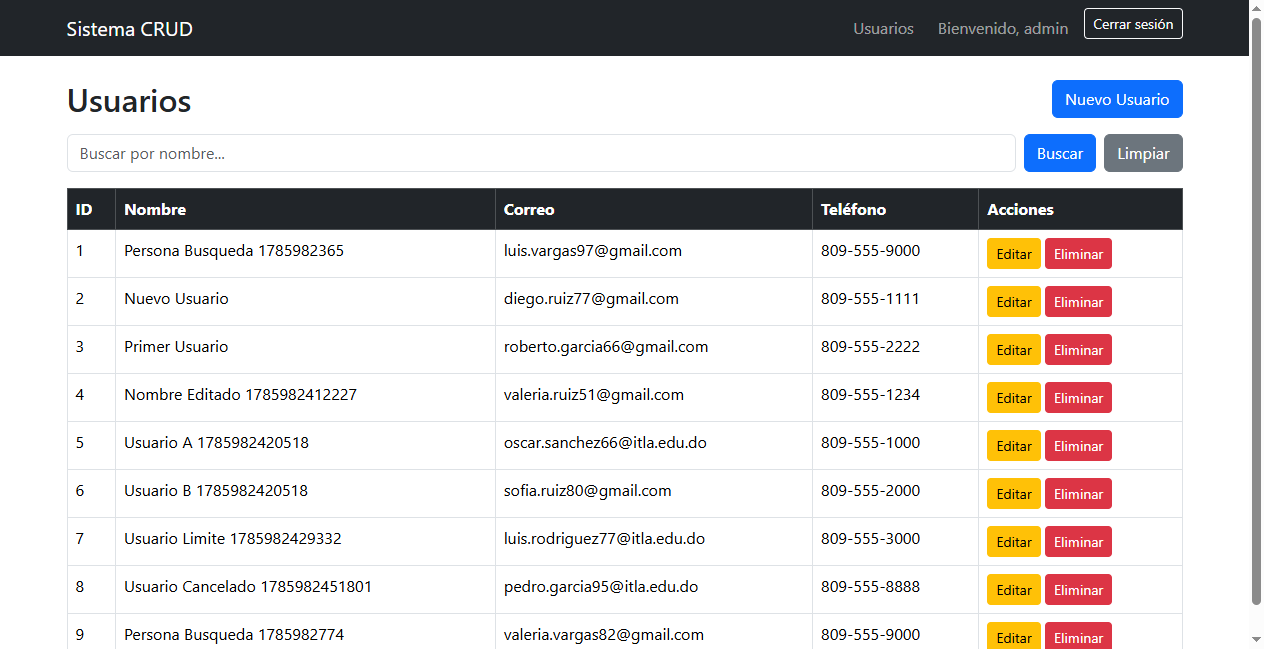
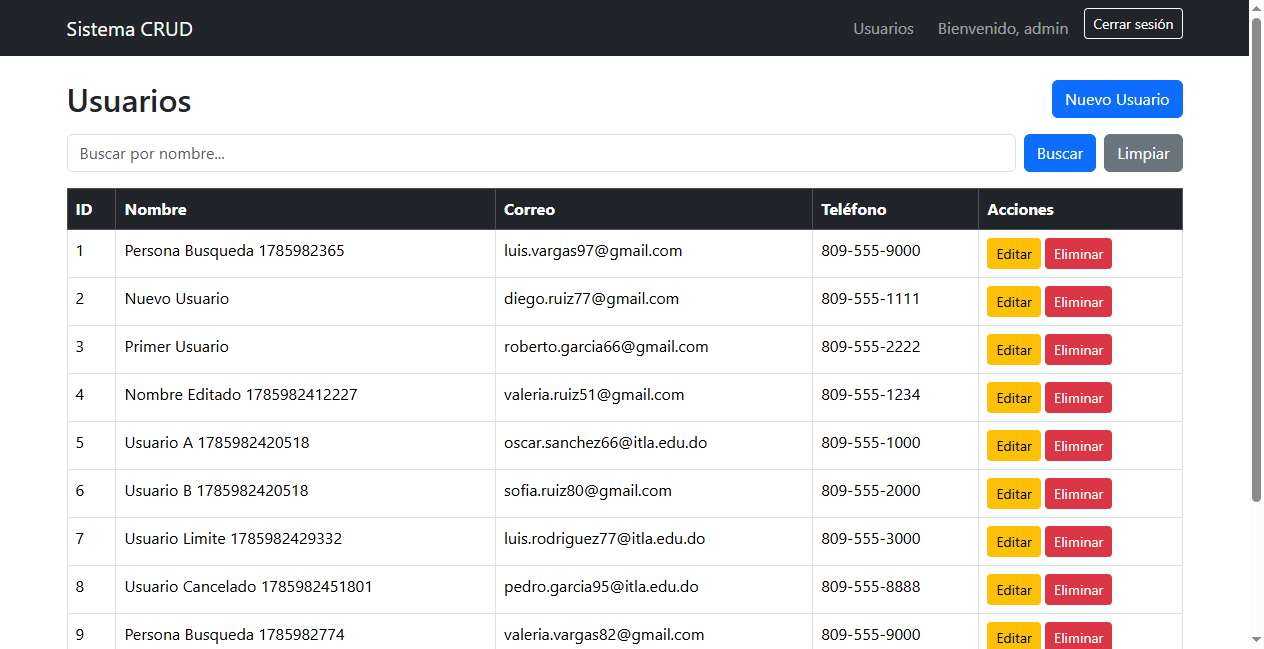
Regenerar capturas de login y listar para completar las 18 evidencias

diff --git a/report/report.html b/report/report.html
@@ -328,7 +328,7 @@ div.media {
   </head>
   <body>
     <h1 id="title">report.html</h1>
-    <p>Report generated on 05-Aug-2026 at 22:14:23 by <a href="https://pypi.python.org/pypi/pytest-html">pytest-html</a>
+    <p>Report generated on 05-Aug-2026 at 22:35:08 by <a href="https://pypi.python.org/pypi/pytest-html">pytest-html</a>
         v4.2.0</p>
     <div id="environment-header">
       <h2>Environment</h2>
@@ -383,7 +383,7 @@ div.media {
         <h2>Summary</h2>
         <div class="additional-summary prefix">
         </div>
-        <p class="run-count">12 tests took 00:01:41.</p>
+        <p class="run-count">18 tests took 00:02:45.</p>
         <p class="filter">(Un)check the boxes to filter the results.</p>
         <div class="summary__reload">
           <div class="summary__reload__button hidden" onclick="location.reload()">
@@ -396,7 +396,7 @@ div.media {
             <input checked="true" class="filter" name="filter_checkbox" type="checkbox" data-test-result="failed" disabled>
             <span class="failed">0 Failed,</span>
             <input checked="true" class="filter" name="filter_checkbox" type="checkbox" data-test-result="passed" >
-            <span class="passed">12 Passed,</span>
+            <span class="passed">18 Passed,</span>
             <input checked="true" class="filter" name="filter_checkbox" type="checkbox" data-test-result="skipped" disabled>
             <span class="skipped">0 Skipped,</span>
             <input checked="true" class="filter" name="filter_checkbox" type="checkbox" data-test-result="xfailed" disabled>
@@ -431,7 +431,7 @@ div.media {
       </thead>
     </table>
   <footer>
-    <div id="data-container" data-jsonblob="{&#34;environment&#34;: {&#34;Python&#34;: &#34;3.14.6&#34;, &#34;Platform&#34;: &#34;Windows-10-10.0.19045-SP0&#34;, &#34;Packages&#34;: {&#34;pytest&#34;: &#34;9.1.1&#34;, &#34;pluggy&#34;: &#34;1.6.0&#34;}, &#34;Plugins&#34;: {&#34;html&#34;: &#34;4.2.0&#34;, &#34;metadata&#34;: &#34;3.1.1&#34;}}, &#34;tests&#34;: {&#34;tests/test_buscar_usuario.py::TestBuscarUsuario::test_buscar_usuario_encontrado&#34;: [{&#34;extras&#34;: [], &#34;result&#34;: &#34;Passed&#34;, &#34;testId&#34;: &#34;tests/test_buscar_usuario.py::TestBuscarUsuario::test_buscar_usuario_encontrado&#34;, &#34;duration&#34;: &#34;00:00:07&#34;, &#34;resultsTableRow&#34;: [&#34;&lt;td class=\&#34;col-result\&#34;&gt;Passed&lt;/td&gt;&#34;, &#34;&lt;td class=\&#34;col-testId\&#34;&gt;tests/test_buscar_usuario.py::TestBuscarUsuario::test_buscar_usuario_encontrado&lt;/td&gt;&#34;, &#34;&lt;td class=\&#34;col-duration\&#34;&gt;00:00:07&lt;/td&gt;&#34;, &#34;&lt;td class=\&#34;col-links\&#34;&gt;&lt;/td&gt;&#34;], &#34;log&#34;: &#34;No log output captured.&#34;}], &#34;tests/test_buscar_usuario.py::TestBuscarUsuario::test_buscar_usuario_sin_resultados&#34;: [{&#34;extras&#34;: [], &#34;result&#34;: &#34;Passed&#34;, &#34;testId&#34;: &#34;tests/test_buscar_usuario.py::TestBuscarUsuario::test_buscar_usuario_sin_resultados&#34;, &#34;duration&#34;: &#34;00:00:08&#34;, &#34;resultsTableRow&#34;: [&#34;&lt;td class=\&#34;col-result\&#34;&gt;Passed&lt;/td&gt;&#34;, &#34;&lt;td class=\&#34;col-testId\&#34;&gt;tests/test_buscar_usuario.py::TestBuscarUsuario::test_buscar_usuario_sin_resultados&lt;/td&gt;&#34;, &#34;&lt;td class=\&#34;col-duration\&#34;&gt;00:00:08&lt;/td&gt;&#34;, &#34;&lt;td class=\&#34;col-links\&#34;&gt;&lt;/td&gt;&#34;], &#34;log&#34;: &#34;No log output captured.&#34;}], &#34;tests/test_buscar_usuario.py::TestBuscarUsuario::test_busqueda_vacia_muestra_todos&#34;: [{&#34;extras&#34;: [], &#34;result&#34;: &#34;Passed&#34;, &#34;testId&#34;: &#34;tests/test_buscar_usuario.py::TestBuscarUsuario::test_busqueda_vacia_muestra_todos&#34;, &#34;duration&#34;: &#34;00:00:07&#34;, &#34;resultsTableRow&#34;: [&#34;&lt;td class=\&#34;col-result\&#34;&gt;Passed&lt;/td&gt;&#34;, &#34;&lt;td class=\&#34;col-testId\&#34;&gt;tests/test_buscar_usuario.py::TestBuscarUsuario::test_busqueda_vacia_muestra_todos&lt;/td&gt;&#34;, &#34;&lt;td class=\&#34;col-duration\&#34;&gt;00:00:07&lt;/td&gt;&#34;, &#34;&lt;td class=\&#34;col-links\&#34;&gt;&lt;/td&gt;&#34;], &#34;log&#34;: &#34;No log output captured.&#34;}], &#34;tests/test_crear_usuario.py::TestCrearUsuario::test_crear_usuario_correcto&#34;: [{&#34;extras&#34;: [], &#34;result&#34;: &#34;Passed&#34;, &#34;testId&#34;: &#34;tests/test_crear_usuario.py::TestCrearUsuario::test_crear_usuario_correcto&#34;, &#34;duration&#34;: &#34;00:00:07&#34;, &#34;resultsTableRow&#34;: [&#34;&lt;td class=\&#34;col-result\&#34;&gt;Passed&lt;/td&gt;&#34;, &#34;&lt;td class=\&#34;col-testId\&#34;&gt;tests/test_crear_usuario.py::TestCrearUsuario::test_crear_usuario_correcto&lt;/td&gt;&#34;, &#34;&lt;td class=\&#34;col-duration\&#34;&gt;00:00:07&lt;/td&gt;&#34;, &#34;&lt;td class=\&#34;col-links\&#34;&gt;&lt;/td&gt;&#34;], &#34;log&#34;: &#34;No log output captured.&#34;}], &#34;tests/test_crear_usuario.py::TestCrearUsuario::test_crear_usuario_correo_duplicado&#34;: [{&#34;extras&#34;: [], &#34;result&#34;: &#34;Passed&#34;, &#34;testId&#34;: &#34;tests/test_crear_usuario.py::TestCrearUsuario::test_crear_usuario_correo_duplicado&#34;, &#34;duration&#34;: &#34;00:00:08&#34;, &#34;resultsTableRow&#34;: [&#34;&lt;td class=\&#34;col-result\&#34;&gt;Passed&lt;/td&gt;&#34;, &#34;&lt;td class=\&#34;col-testId\&#34;&gt;tests/test_crear_usuario.py::TestCrearUsuario::test_crear_usuario_correo_duplicado&lt;/td&gt;&#34;, &#34;&lt;td class=\&#34;col-duration\&#34;&gt;00:00:08&lt;/td&gt;&#34;, &#34;&lt;td class=\&#34;col-links\&#34;&gt;&lt;/td&gt;&#34;], &#34;log&#34;: &#34;No log output captured.&#34;}], &#34;tests/test_crear_usuario.py::TestCrearUsuario::test_crear_usuario_nombre_vacio&#34;: [{&#34;extras&#34;: [], &#34;result&#34;: &#34;Passed&#34;, &#34;testId&#34;: &#34;tests/test_crear_usuario.py::TestCrearUsuario::test_crear_usuario_nombre_vacio&#34;, &#34;duration&#34;: &#34;00:00:07&#34;, &#34;resultsTableRow&#34;: [&#34;&lt;td class=\&#34;col-result\&#34;&gt;Passed&lt;/td&gt;&#34;, &#34;&lt;td class=\&#34;col-testId\&#34;&gt;tests/test_crear_usuario.py::TestCrearUsuario::test_crear_usuario_nombre_vacio&lt;/td&gt;&#34;, &#34;&lt;td class=\&#34;col-duration\&#34;&gt;00:00:07&lt;/td&gt;&#34;, &#34;&lt;td class=\&#34;col-links\&#34;&gt;&lt;/td&gt;&#34;], &#34;log&#34;: &#34;No log output captured.&#34;}], &#34;tests/test_editar_usuario.py::TestEditarUsuario::test_editar_usuario_correcto&#34;: [{&#34;extras&#34;: [], &#34;result&#34;: &#34;Passed&#34;, &#34;testId&#34;: &#34;tests/test_editar_usuario.py::TestEditarUsuario::test_editar_usuario_correcto&#34;, &#34;duration&#34;: &#34;00:00:08&#34;, &#34;resultsTableRow&#34;: [&#34;&lt;td class=\&#34;col-result\&#34;&gt;Passed&lt;/td&gt;&#34;, &#34;&lt;td class=\&#34;col-testId\&#34;&gt;tests/test_editar_usuario.py::TestEditarUsuario::test_editar_usuario_correcto&lt;/td&gt;&#34;, &#34;&lt;td class=\&#34;col-duration\&#34;&gt;00:00:08&lt;/td&gt;&#34;, &#34;&lt;td class=\&#34;col-links\&#34;&gt;&lt;/td&gt;&#34;], &#34;log&#34;: &#34;No log output captured.&#34;}], &#34;tests/test_editar_usuario.py::TestEditarUsuario::test_editar_usuario_correo_duplicado&#34;: [{&#34;extras&#34;: [], &#34;result&#34;: &#34;Passed&#34;, &#34;testId&#34;: &#34;tests/test_editar_usuario.py::TestEditarUsuario::test_editar_usuario_correo_duplicado&#34;, &#34;duration&#34;: &#34;00:00:09&#34;, &#34;resultsTableRow&#34;: [&#34;&lt;td class=\&#34;col-result\&#34;&gt;Passed&lt;/td&gt;&#34;, &#34;&lt;td class=\&#34;col-testId\&#34;&gt;tests/test_editar_usuario.py::TestEditarUsuario::test_editar_usuario_correo_duplicado&lt;/td&gt;&#34;, &#34;&lt;td class=\&#34;col-duration\&#34;&gt;00:00:09&lt;/td&gt;&#34;, &#34;&lt;td class=\&#34;col-links\&#34;&gt;&lt;/td&gt;&#34;], &#34;log&#34;: &#34;No log output captured.&#34;}], &#34;tests/test_editar_usuario.py::TestEditarUsuario::test_editar_usuario_nombre_vacio&#34;: [{&#34;extras&#34;: [], &#34;result&#34;: &#34;Passed&#34;, &#34;testId&#34;: &#34;tests/test_editar_usuario.py::TestEditarUsuario::test_editar_usuario_nombre_vacio&#34;, &#34;duration&#34;: &#34;00:00:08&#34;, &#34;resultsTableRow&#34;: [&#34;&lt;td class=\&#34;col-result\&#34;&gt;Passed&lt;/td&gt;&#34;, &#34;&lt;td class=\&#34;col-testId\&#34;&gt;tests/test_editar_usuario.py::TestEditarUsuario::test_editar_usuario_nombre_vacio&lt;/td&gt;&#34;, &#34;&lt;td class=\&#34;col-duration\&#34;&gt;00:00:08&lt;/td&gt;&#34;, &#34;&lt;td class=\&#34;col-links\&#34;&gt;&lt;/td&gt;&#34;], &#34;log&#34;: &#34;No log output captured.&#34;}], &#34;tests/test_eliminar_usuario.py::TestEliminarUsuario::test_eliminar_usuario_correcto&#34;: [{&#34;extras&#34;: [], &#34;result&#34;: &#34;Passed&#34;, &#34;testId&#34;: &#34;tests/test_eliminar_usuario.py::TestEliminarUsuario::test_eliminar_usuario_correcto&#34;, &#34;duration&#34;: &#34;00:00:08&#34;, &#34;resultsTableRow&#34;: [&#34;&lt;td class=\&#34;col-result\&#34;&gt;Passed&lt;/td&gt;&#34;, &#34;&lt;td class=\&#34;col-testId\&#34;&gt;tests/test_eliminar_usuario.py::TestEliminarUsuario::test_eliminar_usuario_correcto&lt;/td&gt;&#34;, &#34;&lt;td class=\&#34;col-duration\&#34;&gt;00:00:08&lt;/td&gt;&#34;, &#34;&lt;td class=\&#34;col-links\&#34;&gt;&lt;/td&gt;&#34;], &#34;log&#34;: &#34;No log output captured.&#34;}], &#34;tests/test_eliminar_usuario.py::TestEliminarUsuario::test_eliminar_usuario_inexistente&#34;: [{&#34;extras&#34;: [], &#34;result&#34;: &#34;Passed&#34;, &#34;testId&#34;: &#34;tests/test_eliminar_usuario.py::TestEliminarUsuario::test_eliminar_usuario_inexistente&#34;, &#34;duration&#34;: &#34;00:00:07&#34;, &#34;resultsTableRow&#34;: [&#34;&lt;td class=\&#34;col-result\&#34;&gt;Passed&lt;/td&gt;&#34;, &#34;&lt;td class=\&#34;col-testId\&#34;&gt;tests/test_eliminar_usuario.py::TestEliminarUsuario::test_eliminar_usuario_inexistente&lt;/td&gt;&#34;, &#34;&lt;td class=\&#34;col-duration\&#34;&gt;00:00:07&lt;/td&gt;&#34;, &#34;&lt;td class=\&#34;col-links\&#34;&gt;&lt;/td&gt;&#34;], &#34;log&#34;: &#34;No log output captured.&#34;}], &#34;tests/test_eliminar_usuario.py::TestEliminarUsuario::test_eliminar_usuario_cancelado&#34;: [{&#34;extras&#34;: [], &#34;result&#34;: &#34;Passed&#34;, &#34;testId&#34;: &#34;tests/test_eliminar_usuario.py::TestEliminarUsuario::test_eliminar_usuario_cancelado&#34;, &#34;duration&#34;: &#34;00:00:08&#34;, &#34;resultsTableRow&#34;: [&#34;&lt;td class=\&#34;col-result\&#34;&gt;Passed&lt;/td&gt;&#34;, &#34;&lt;td class=\&#34;col-testId\&#34;&gt;tests/test_eliminar_usuario.py::TestEliminarUsuario::test_eliminar_usuario_cancelado&lt;/td&gt;&#34;, &#34;&lt;td class=\&#34;col-duration\&#34;&gt;00:00:08&lt;/td&gt;&#34;, &#34;&lt;td class=\&#34;col-links\&#34;&gt;&lt;/td&gt;&#34;], &#34;log&#34;: &#34;No log output captured.&#34;}]}, &#34;renderCollapsed&#34;: [&#34;passed&#34;], &#34;initialSort&#34;: &#34;result&#34;, &#34;title&#34;: &#34;report.html&#34;}"></div>
+    <div id="data-container" data-jsonblob="{&#34;environment&#34;: {&#34;Python&#34;: &#34;3.14.6&#34;, &#34;Platform&#34;: &#34;Windows-10-10.0.19045-SP0&#34;, &#34;Packages&#34;: {&#34;pytest&#34;: &#34;9.1.1&#34;, &#34;pluggy&#34;: &#34;1.6.0&#34;}, &#34;Plugins&#34;: {&#34;html&#34;: &#34;4.2.0&#34;, &#34;metadata&#34;: &#34;3.1.1&#34;}}, &#34;tests&#34;: {&#34;tests/test_buscar_usuario.py::TestBuscarUsuario::test_buscar_usuario_encontrado&#34;: [{&#34;extras&#34;: [], &#34;result&#34;: &#34;Passed&#34;, &#34;testId&#34;: &#34;tests/test_buscar_usuario.py::TestBuscarUsuario::test_buscar_usuario_encontrado&#34;, &#34;duration&#34;: &#34;00:00:11&#34;, &#34;resultsTableRow&#34;: [&#34;&lt;td class=\&#34;col-result\&#34;&gt;Passed&lt;/td&gt;&#34;, &#34;&lt;td class=\&#34;col-testId\&#34;&gt;tests/test_buscar_usuario.py::TestBuscarUsuario::test_buscar_usuario_encontrado&lt;/td&gt;&#34;, &#34;&lt;td class=\&#34;col-duration\&#34;&gt;00:00:11&lt;/td&gt;&#34;, &#34;&lt;td class=\&#34;col-links\&#34;&gt;&lt;/td&gt;&#34;], &#34;log&#34;: &#34;No log output captured.&#34;}], &#34;tests/test_buscar_usuario.py::TestBuscarUsuario::test_buscar_usuario_sin_resultados&#34;: [{&#34;extras&#34;: [], &#34;result&#34;: &#34;Passed&#34;, &#34;testId&#34;: &#34;tests/test_buscar_usuario.py::TestBuscarUsuario::test_buscar_usuario_sin_resultados&#34;, &#34;duration&#34;: &#34;00:00:09&#34;, &#34;resultsTableRow&#34;: [&#34;&lt;td class=\&#34;col-result\&#34;&gt;Passed&lt;/td&gt;&#34;, &#34;&lt;td class=\&#34;col-testId\&#34;&gt;tests/test_buscar_usuario.py::TestBuscarUsuario::test_buscar_usuario_sin_resultados&lt;/td&gt;&#34;, &#34;&lt;td class=\&#34;col-duration\&#34;&gt;00:00:09&lt;/td&gt;&#34;, &#34;&lt;td class=\&#34;col-links\&#34;&gt;&lt;/td&gt;&#34;], &#34;log&#34;: &#34;No log output captured.&#34;}], &#34;tests/test_buscar_usuario.py::TestBuscarUsuario::test_busqueda_vacia_muestra_todos&#34;: [{&#34;extras&#34;: [], &#34;result&#34;: &#34;Passed&#34;, &#34;testId&#34;: &#34;tests/test_buscar_usuario.py::TestBuscarUsuario::test_busqueda_vacia_muestra_todos&#34;, &#34;duration&#34;: &#34;00:00:08&#34;, &#34;resultsTableRow&#34;: [&#34;&lt;td class=\&#34;col-result\&#34;&gt;Passed&lt;/td&gt;&#34;, &#34;&lt;td class=\&#34;col-testId\&#34;&gt;tests/test_buscar_usuario.py::TestBuscarUsuario::test_busqueda_vacia_muestra_todos&lt;/td&gt;&#34;, &#34;&lt;td class=\&#34;col-duration\&#34;&gt;00:00:08&lt;/td&gt;&#34;, &#34;&lt;td class=\&#34;col-links\&#34;&gt;&lt;/td&gt;&#34;], &#34;log&#34;: &#34;No log output captured.&#34;}], &#34;tests/test_crear_usuario.py::TestCrearUsuario::test_crear_usuario_correcto&#34;: [{&#34;extras&#34;: [], &#34;result&#34;: &#34;Passed&#34;, &#34;testId&#34;: &#34;tests/test_crear_usuario.py::TestCrearUsuario::test_crear_usuario_correcto&#34;, &#34;duration&#34;: &#34;00:00:09&#34;, &#34;resultsTableRow&#34;: [&#34;&lt;td class=\&#34;col-result\&#34;&gt;Passed&lt;/td&gt;&#34;, &#34;&lt;td class=\&#34;col-testId\&#34;&gt;tests/test_crear_usuario.py::TestCrearUsuario::test_crear_usuario_correcto&lt;/td&gt;&#34;, &#34;&lt;td class=\&#34;col-duration\&#34;&gt;00:00:09&lt;/td&gt;&#34;, &#34;&lt;td class=\&#34;col-links\&#34;&gt;&lt;/td&gt;&#34;], &#34;log&#34;: &#34;No log output captured.&#34;}], &#34;tests/test_crear_usuario.py::TestCrearUsuario::test_crear_usuario_correo_duplicado&#34;: [{&#34;extras&#34;: [], &#34;result&#34;: &#34;Passed&#34;, &#34;testId&#34;: &#34;tests/test_crear_usuario.py::TestCrearUsuario::test_crear_usuario_correo_duplicado&#34;, &#34;duration&#34;: &#34;00:00:09&#34;, &#34;resultsTableRow&#34;: [&#34;&lt;td class=\&#34;col-result\&#34;&gt;Passed&lt;/td&gt;&#34;, &#34;&lt;td class=\&#34;col-testId\&#34;&gt;tests/test_crear_usuario.py::TestCrearUsuario::test_crear_usuario_correo_duplicado&lt;/td&gt;&#34;, &#34;&lt;td class=\&#34;col-duration\&#34;&gt;00:00:09&lt;/td&gt;&#34;, &#34;&lt;td class=\&#34;col-links\&#34;&gt;&lt;/td&gt;&#34;], &#34;log&#34;: &#34;No log output captured.&#34;}], &#34;tests/test_crear_usuario.py::TestCrearUsuario::test_crear_usuario_nombre_vacio&#34;: [{&#34;extras&#34;: [], &#34;result&#34;: &#34;Passed&#34;, &#34;testId&#34;: &#34;tests/test_crear_usuario.py::TestCrearUsuario::test_crear_usuario_nombre_vacio&#34;, &#34;duration&#34;: &#34;00:00:08&#34;, &#34;resultsTableRow&#34;: [&#34;&lt;td class=\&#34;col-result\&#34;&gt;Passed&lt;/td&gt;&#34;, &#34;&lt;td class=\&#34;col-testId\&#34;&gt;tests/test_crear_usuario.py::TestCrearUsuario::test_crear_usuario_nombre_vacio&lt;/td&gt;&#34;, &#34;&lt;td class=\&#34;col-duration\&#34;&gt;00:00:08&lt;/td&gt;&#34;, &#34;&lt;td class=\&#34;col-links\&#34;&gt;&lt;/td&gt;&#34;], &#34;log&#34;: &#34;No log output captured.&#34;}], &#34;tests/test_editar_usuario.py::TestEditarUsuario::test_editar_usuario_correcto&#34;: [{&#34;extras&#34;: [], &#34;result&#34;: &#34;Passed&#34;, &#34;testId&#34;: &#34;tests/test_editar_usuario.py::TestEditarUsuario::test_editar_usuario_correcto&#34;, &#34;duration&#34;: &#34;00:00:09&#34;, &#34;resultsTableRow&#34;: [&#34;&lt;td class=\&#34;col-result\&#34;&gt;Passed&lt;/td&gt;&#34;, &#34;&lt;td class=\&#34;col-testId\&#34;&gt;tests/test_editar_usuario.py::TestEditarUsuario::test_editar_usuario_correcto&lt;/td&gt;&#34;, &#34;&lt;td class=\&#34;col-duration\&#34;&gt;00:00:09&lt;/td&gt;&#34;, &#34;&lt;td class=\&#34;col-links\&#34;&gt;&lt;/td&gt;&#34;], &#34;log&#34;: &#34;No log output captured.&#34;}], &#34;tests/test_editar_usuario.py::TestEditarUsuario::test_editar_usuario_correo_duplicado&#34;: [{&#34;extras&#34;: [], &#34;result&#34;: &#34;Passed&#34;, &#34;testId&#34;: &#34;tests/test_editar_usuario.py::TestEditarUsuario::test_editar_usuario_correo_duplicado&#34;, &#34;duration&#34;: &#34;00:00:13&#34;, &#34;resultsTableRow&#34;: [&#34;&lt;td class=\&#34;col-result\&#34;&gt;Passed&lt;/td&gt;&#34;, &#34;&lt;td class=\&#34;col-testId\&#34;&gt;tests/test_editar_usuario.py::TestEditarUsuario::test_editar_usuario_correo_duplicado&lt;/td&gt;&#34;, &#34;&lt;td class=\&#34;col-duration\&#34;&gt;00:00:13&lt;/td&gt;&#34;, &#34;&lt;td class=\&#34;col-links\&#34;&gt;&lt;/td&gt;&#34;], &#34;log&#34;: &#34;No log output captured.&#34;}], &#34;tests/test_editar_usuario.py::TestEditarUsuario::test_editar_usuario_nombre_vacio&#34;: [{&#34;extras&#34;: [], &#34;result&#34;: &#34;Passed&#34;, &#34;testId&#34;: &#34;tests/test_editar_usuario.py::TestEditarUsuario::test_editar_usuario_nombre_vacio&#34;, &#34;duration&#34;: &#34;00:00:09&#34;, &#34;resultsTableRow&#34;: [&#34;&lt;td class=\&#34;col-result\&#34;&gt;Passed&lt;/td&gt;&#34;, &#34;&lt;td class=\&#34;col-testId\&#34;&gt;tests/test_editar_usuario.py::TestEditarUsuario::test_editar_usuario_nombre_vacio&lt;/td&gt;&#34;, &#34;&lt;td class=\&#34;col-duration\&#34;&gt;00:00:09&lt;/td&gt;&#34;, &#34;&lt;td class=\&#34;col-links\&#34;&gt;&lt;/td&gt;&#34;], &#34;log&#34;: &#34;No log output captured.&#34;}], &#34;tests/test_eliminar_usuario.py::TestEliminarUsuario::test_eliminar_usuario_correcto&#34;: [{&#34;extras&#34;: [], &#34;result&#34;: &#34;Passed&#34;, &#34;testId&#34;: &#34;tests/test_eliminar_usuario.py::TestEliminarUsuario::test_eliminar_usuario_correcto&#34;, &#34;duration&#34;: &#34;00:00:09&#34;, &#34;resultsTableRow&#34;: [&#34;&lt;td class=\&#34;col-result\&#34;&gt;Passed&lt;/td&gt;&#34;, &#34;&lt;td class=\&#34;col-testId\&#34;&gt;tests/test_eliminar_usuario.py::TestEliminarUsuario::test_eliminar_usuario_correcto&lt;/td&gt;&#34;, &#34;&lt;td class=\&#34;col-duration\&#34;&gt;00:00:09&lt;/td&gt;&#34;, &#34;&lt;td class=\&#34;col-links\&#34;&gt;&lt;/td&gt;&#34;], &#34;log&#34;: &#34;No log output captured.&#34;}], &#34;tests/test_eliminar_usuario.py::TestEliminarUsuario::test_eliminar_usuario_inexistente&#34;: [{&#34;extras&#34;: [], &#34;result&#34;: &#34;Passed&#34;, &#34;testId&#34;: &#34;tests/test_eliminar_usuario.py::TestEliminarUsuario::test_eliminar_usuario_inexistente&#34;, &#34;duration&#34;: &#34;00:00:10&#34;, &#34;resultsTableRow&#34;: [&#34;&lt;td class=\&#34;col-result\&#34;&gt;Passed&lt;/td&gt;&#34;, &#34;&lt;td class=\&#34;col-testId\&#34;&gt;tests/test_eliminar_usuario.py::TestEliminarUsuario::test_eliminar_usuario_inexistente&lt;/td&gt;&#34;, &#34;&lt;td class=\&#34;col-duration\&#34;&gt;00:00:10&lt;/td&gt;&#34;, &#34;&lt;td class=\&#34;col-links\&#34;&gt;&lt;/td&gt;&#34;], &#34;log&#34;: &#34;No log output captured.&#34;}], &#34;tests/test_eliminar_usuario.py::TestEliminarUsuario::test_eliminar_usuario_cancelado&#34;: [{&#34;extras&#34;: [], &#34;result&#34;: &#34;Passed&#34;, &#34;testId&#34;: &#34;tests/test_eliminar_usuario.py::TestEliminarUsuario::test_eliminar_usuario_cancelado&#34;, &#34;duration&#34;: &#34;00:00:09&#34;, &#34;resultsTableRow&#34;: [&#34;&lt;td class=\&#34;col-result\&#34;&gt;Passed&lt;/td&gt;&#34;, &#34;&lt;td class=\&#34;col-testId\&#34;&gt;tests/test_eliminar_usuario.py::TestEliminarUsuario::test_eliminar_usuario_cancelado&lt;/td&gt;&#34;, &#34;&lt;td class=\&#34;col-duration\&#34;&gt;00:00:09&lt;/td&gt;&#34;, &#34;&lt;td class=\&#34;col-links\&#34;&gt;&lt;/td&gt;&#34;], &#34;log&#34;: &#34;No log output captured.&#34;}], &#34;tests/test_listar_usuarios.py::TestListarUsuarios::test_listar_usuario_creado&#34;: [{&#34;extras&#34;: [], &#34;result&#34;: &#34;Passed&#34;, &#34;testId&#34;: &#34;tests/test_listar_usuarios.py::TestListarUsuarios::test_listar_usuario_creado&#34;, &#34;duration&#34;: &#34;00:00:11&#34;, &#34;resultsTableRow&#34;: [&#34;&lt;td class=\&#34;col-result\&#34;&gt;Passed&lt;/td&gt;&#34;, &#34;&lt;td class=\&#34;col-testId\&#34;&gt;tests/test_listar_usuarios.py::TestListarUsuarios::test_listar_usuario_creado&lt;/td&gt;&#34;, &#34;&lt;td class=\&#34;col-duration\&#34;&gt;00:00:11&lt;/td&gt;&#34;, &#34;&lt;td class=\&#34;col-links\&#34;&gt;&lt;/td&gt;&#34;], &#34;log&#34;: &#34;No log output captured.&#34;}], &#34;tests/test_listar_usuarios.py::TestListarUsuarios::test_listar_sin_resultados&#34;: [{&#34;extras&#34;: [], &#34;result&#34;: &#34;Passed&#34;, &#34;testId&#34;: &#34;tests/test_listar_usuarios.py::TestListarUsuarios::test_listar_sin_resultados&#34;, &#34;duration&#34;: &#34;00:00:08&#34;, &#34;resultsTableRow&#34;: [&#34;&lt;td class=\&#34;col-result\&#34;&gt;Passed&lt;/td&gt;&#34;, &#34;&lt;td class=\&#34;col-testId\&#34;&gt;tests/test_listar_usuarios.py::TestListarUsuarios::test_listar_sin_resultados&lt;/td&gt;&#34;, &#34;&lt;td class=\&#34;col-duration\&#34;&gt;00:00:08&lt;/td&gt;&#34;, &#34;&lt;td class=\&#34;col-links\&#34;&gt;&lt;/td&gt;&#34;], &#34;log&#34;: &#34;No log output captured.&#34;}], &#34;tests/test_listar_usuarios.py::TestListarUsuarios::test_listar_busqueda_extremadamente_larga&#34;: [{&#34;extras&#34;: [], &#34;result&#34;: &#34;Passed&#34;, &#34;testId&#34;: &#34;tests/test_listar_usuarios.py::TestListarUsuarios::test_listar_busqueda_extremadamente_larga&#34;, &#34;duration&#34;: &#34;00:00:08&#34;, &#34;resultsTableRow&#34;: [&#34;&lt;td class=\&#34;col-result\&#34;&gt;Passed&lt;/td&gt;&#34;, &#34;&lt;td class=\&#34;col-testId\&#34;&gt;tests/test_listar_usuarios.py::TestListarUsuarios::test_listar_busqueda_extremadamente_larga&lt;/td&gt;&#34;, &#34;&lt;td class=\&#34;col-duration\&#34;&gt;00:00:08&lt;/td&gt;&#34;, &#34;&lt;td class=\&#34;col-links\&#34;&gt;&lt;/td&gt;&#34;], &#34;log&#34;: &#34;No log output captured.&#34;}], &#34;tests/test_login.py::TestLogin::test_login_correcto&#34;: [{&#34;extras&#34;: [], &#34;result&#34;: &#34;Passed&#34;, &#34;testId&#34;: &#34;tests/test_login.py::TestLogin::test_login_correcto&#34;, &#34;duration&#34;: &#34;00:00:08&#34;, &#34;resultsTableRow&#34;: [&#34;&lt;td class=\&#34;col-result\&#34;&gt;Passed&lt;/td&gt;&#34;, &#34;&lt;td class=\&#34;col-testId\&#34;&gt;tests/test_login.py::TestLogin::test_login_correcto&lt;/td&gt;&#34;, &#34;&lt;td class=\&#34;col-duration\&#34;&gt;00:00:08&lt;/td&gt;&#34;, &#34;&lt;td class=\&#34;col-links\&#34;&gt;&lt;/td&gt;&#34;], &#34;log&#34;: &#34;No log output captured.&#34;}], &#34;tests/test_login.py::TestLogin::test_login_incorrecto&#34;: [{&#34;extras&#34;: [], &#34;result&#34;: &#34;Passed&#34;, &#34;testId&#34;: &#34;tests/test_login.py::TestLogin::test_login_incorrecto&#34;, &#34;duration&#34;: &#34;00:00:08&#34;, &#34;resultsTableRow&#34;: [&#34;&lt;td class=\&#34;col-result\&#34;&gt;Passed&lt;/td&gt;&#34;, &#34;&lt;td class=\&#34;col-testId\&#34;&gt;tests/test_login.py::TestLogin::test_login_incorrecto&lt;/td&gt;&#34;, &#34;&lt;td class=\&#34;col-duration\&#34;&gt;00:00:08&lt;/td&gt;&#34;, &#34;&lt;td class=\&#34;col-links\&#34;&gt;&lt;/td&gt;&#34;], &#34;log&#34;: &#34;No log output captured.&#34;}], &#34;tests/test_login.py::TestLogin::test_login_campos_vacios&#34;: [{&#34;extras&#34;: [], &#34;result&#34;: &#34;Passed&#34;, &#34;testId&#34;: &#34;tests/test_login.py::TestLogin::test_login_campos_vacios&#34;, &#34;duration&#34;: &#34;00:00:07&#34;, &#34;resultsTableRow&#34;: [&#34;&lt;td class=\&#34;col-result\&#34;&gt;Passed&lt;/td&gt;&#34;, &#34;&lt;td class=\&#34;col-testId\&#34;&gt;tests/test_login.py::TestLogin::test_login_campos_vacios&lt;/td&gt;&#34;, &#34;&lt;td class=\&#34;col-duration\&#34;&gt;00:00:07&lt;/td&gt;&#34;, &#34;&lt;td class=\&#34;col-links\&#34;&gt;&lt;/td&gt;&#34;], &#34;log&#34;: &#34;No log output captured.&#34;}]}, &#34;renderCollapsed&#34;: [&#34;passed&#34;], &#34;initialSort&#34;: &#34;result&#34;, &#34;title&#34;: &#34;report.html&#34;}"></div>
     <script>
       (function(){function r(e,n,t){function o(i,f){if(!n[i]){if(!e[i]){var c="function"==typeof require&&require;if(!f&&c)return c(i,!0);if(u)return u(i,!0);var a=new Error("Cannot find module '"+i+"'");throw a.code="MODULE_NOT_FOUND",a}var p=n[i]={exports:{}};e[i][0].call(p.exports,function(r){var n=e[i][1][r];return o(n||r)},p,p.exports,r,e,n,t)}return n[i].exports}for(var u="function"==typeof require&&require,i=0;i<t.length;i++)o(t[i]);return o}return r})()({1:[function(require,module,exports){
 const { getCollapsedCategory, setCollapsedIds } = require('./storage.js')
